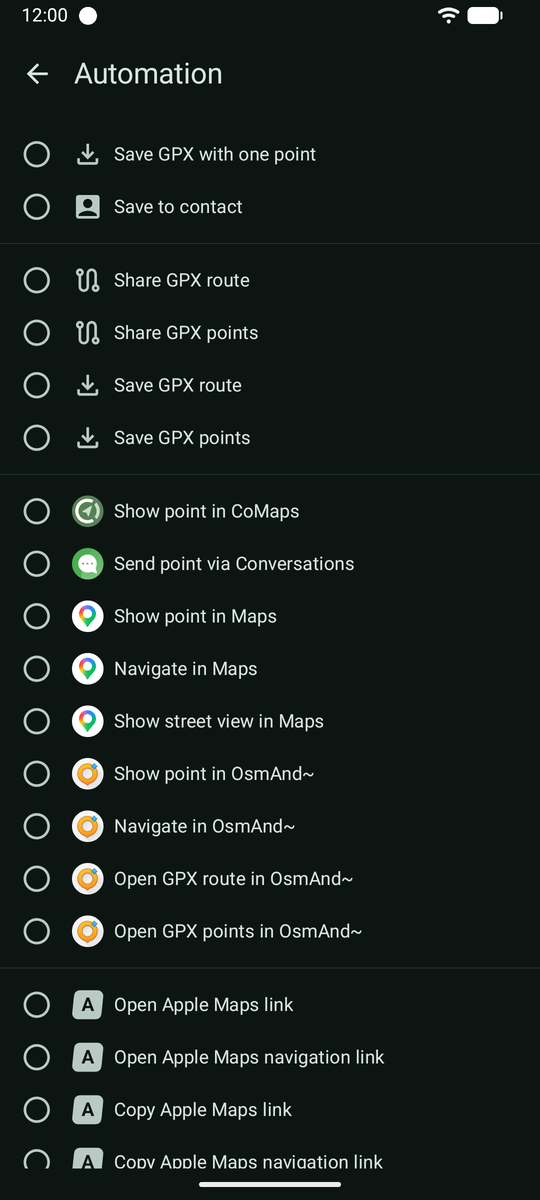
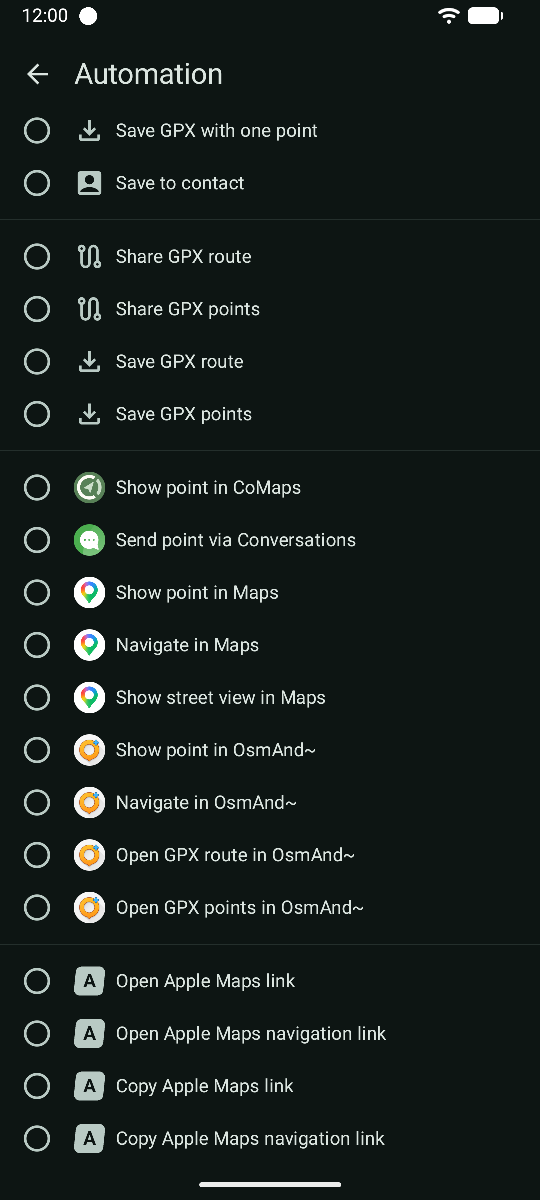
Remove automation share success message (#605)

Changed region(s): [[0.1185, 0.0925, 0.7111, 0.9867], [0.0296, 0.0925, 0.0889, 0.9867], [0.0593, 0.0, 0.1185, 0.0308]]

diff --git a/app/src/main/java/page/ooooo/geoshare/lib/outputs/OutputImpl.kt b/app/src/main/java/page/ooooo/geoshare/lib/outputs/OutputImpl.kt
@@ -163,8 +163,7 @@ sealed interface SharePointOutput :
     PointOutput.WithoutLocation,
     Output.HasErrorText,
     Output.HasAutomationDelay,
-    Output.HasAutomationErrorText,
-    Output.HasAutomationSuccessText {
+    Output.HasAutomationErrorText {
 
     fun getText(value: Point, uriQuote: UriQuote = DefaultUriQuote): String? = null
 
@@ -180,10 +179,6 @@ sealed interface SharePointOutput :
     @Composable
     override fun automationErrorText(appDetails: AppDetails) =
         stringResource(R.string.conversion_automation_share_failed)
-
-    @Composable
-    override fun automationSuccessText(appDetails: AppDetails) =
-        stringResource(R.string.conversion_automation_share_succeeded)
 
     @Composable
     override fun automationWaitingText(counterSec: Int, appDetails: AppDetails) =

diff --git a/app/src/androidTestFree/java/page/ooooo/geoshare/screenshots/ScreenshotsFreeBehaviorTest.kt b/app/src/androidTestFree/java/page/ooooo/geoshare/screenshots/ScreenshotsFreeBehaviorTest.kt
@@ -272,9 +272,6 @@ class ScreenshotsFreeBehaviorTest {
         }
         pressBack() // Close the system share menu
 
-        // Automation - Share - Success
-        saveScreenshot("main_strings/automation_share_success") // Don't wait, because the message will disappear fast
-
         // Automation - Share GPX route - Waiting
         goToUserPreferencesDetail(UserPreferenceGroupId.AUTOMATION)
         scrollToAutomationItem(ShareRouteGpxAutomation).click()
